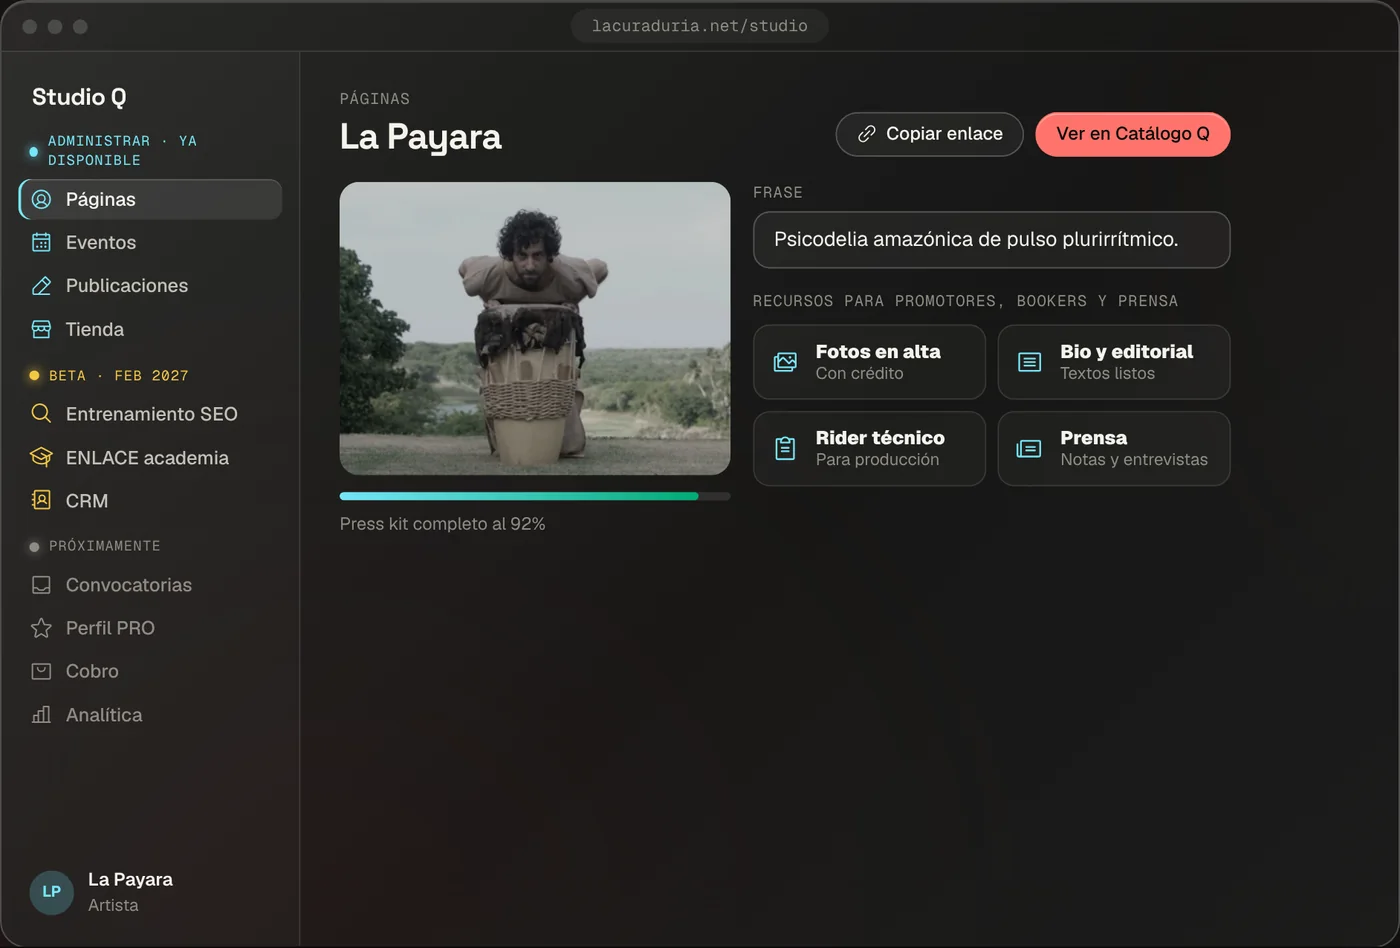
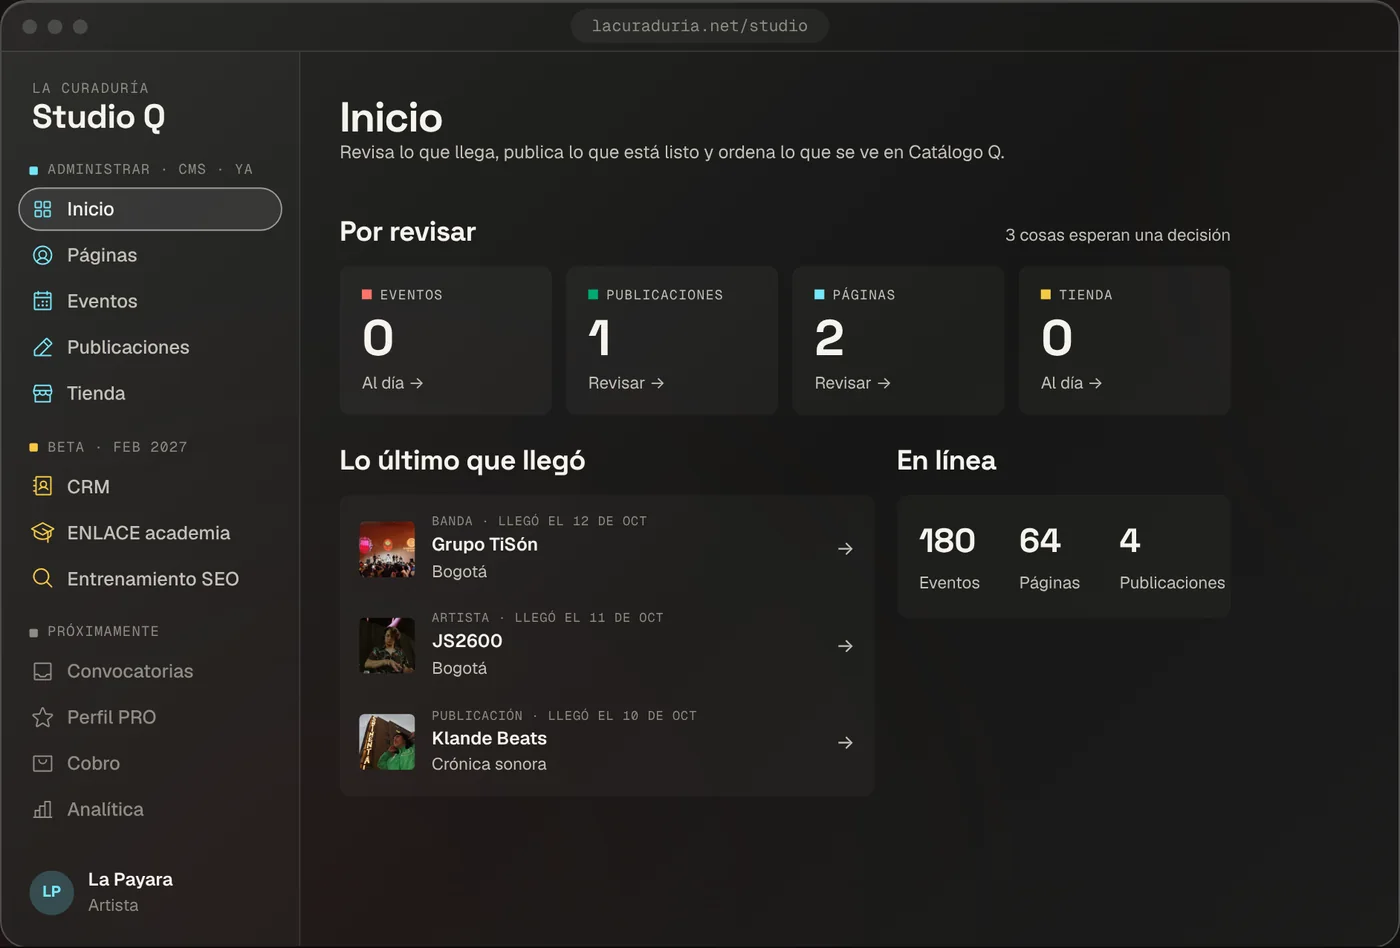
Studio Q con el diseño del panel real: Inicio (por revisar, lo último, en línea) y módulos por estado
Administrar · CMS (ya): Inicio, Páginas, Eventos, Publicaciones, Tienda. Beta feb 2027: CRM,
ENLACE academia, Entrenamiento SEO. Próximamente: Convocatorias, Perfil PRO, Cobro, Analítica.

Claude-Session: https://claude.ai/code/session_013ns4ecBsLFtjFuJTgQGV7z

diff --git a/index.html b/index.html
@@ -25,12 +25,12 @@
 <link rel="preload" href="/fuentes/space-grotesk.woff2" as="font" type="font/woff2" crossorigin>
 <link rel="preload" href="/fuentes/geist.woff2" as="font" type="font/woff2" crossorigin>
 <link rel="stylesheet" href="/estilo/landing.css?v=20261011e">
-<link rel="stylesheet" href="/estilo/demo.css?v=20261010b">
+<link rel="stylesheet" href="/estilo/demo.css?v=20261012a">
 <!-- Medición: pega aquí el ID de Google Analytics 4 (G-XXXX) y el de la conversión de Google Ads (AW-XXXX/etiqueta). Vacíos, no se carga nada de Google. -->
 <meta name="lc-ga4" content="">
 <meta name="lc-ads" content="">
 <script src="/estilo/medicion.js?v=20261010b"></script>
-<script src="/estilo/demo.js?v=20261011d" defer></script>
+<script src="/estilo/demo.js?v=20261012b" defer></script>
 <script src="/estilo/landing.js?v=20261011b" defer></script>
 <style>
 *{margin:0;padding:0;box-sizing:border-box;-webkit-tap-highlight-color:transparent;}
@@ -452,7 +452,7 @@ footer.site-footer{}
       </div>
       <div class="t-escena t-entra t-entra-3">
         <button type="button" class="t-escena-pc" onclick="navTo('preventa')" aria-label="Studio Q: ver la página para quienes hacen la cultura">
-          <img src="/img/escena/terminal.webp?v=5" alt="Studio Q: el panel de gestión con el perfil y press kit de un artista" width="1400" height="948" fetchpriority="high">
+          <img src="/img/escena/terminal.webp?v=6" alt="Studio Q: el panel de gestión con el perfil y press kit de un artista" width="1400" height="948" fetchpriority="high">
           <span class="t-escena-rotulo" style="--c: var(--p-coral);">Studio Q · para quienes hacen la cultura</span>
         </button>
         <button type="button" class="t-escena-tel" onclick="navTo('la-guia')" aria-label="Catálogo Q: ver la página para quienes viven la cultura">
@@ -532,7 +532,7 @@ footer.site-footer{}
           <button type="button" class="t-btn t-btn-sec" onclick="navTo('preventa','t-fun-precio')">Ver la preventa</button>
         </div>
       </div>
-      <button type="button" class="t-producto-img t-rv t-rv-2" onclick="navTo('preventa')" aria-label="Ver Studio Q"><img src="/img/escena/terminal.webp?v=5" alt="" width="1400" height="948" loading="lazy"></button>
+      <button type="button" class="t-producto-img t-rv t-rv-2" onclick="navTo('preventa')" aria-label="Ver Studio Q"><img src="/img/escena/terminal.webp?v=6" alt="" width="1400" height="948" loading="lazy"></button>
     </div>
   </section>
 
@@ -1450,17 +1450,18 @@ window.addEventListener('load', function(){
           <div class="t-pc-marco" data-pc-marco>
             <div class="t-pc-lienzo" data-pc-lienzo>
               <aside class="t-pro-lado">
-                <p class="t-pro-marca">Studio Q</p>
+                <p class="t-pro-marca"><small>La Curaduría</small>Studio Q</p>
                 <div class="t-pro-nav" role="group" aria-label="Módulos de Studio Q">
-                  <p class="t-pro-grupo" style="--c: var(--p-cyan);">Administrar · ya disponible</p>
-                  <button type="button" data-ir="perfiles" data-estado="ya" aria-current="true"><svg aria-hidden="true" focusable="false" xmlns="http://www.w3.org/2000/svg" viewBox="0 0 256 256" fill="currentColor"><path d="M128,24A104,104,0,1,0,232,128,104.11,104.11,0,0,0,128,24ZM74.08,197.5a64,64,0,0,1,107.84,0,87.83,87.83,0,0,1-107.84,0ZM96,120a32,32,0,1,1,32,32A32,32,0,0,1,96,120Zm97.76,66.41a79.66,79.66,0,0,0-36.06-28.75,48,48,0,1,0-59.4,0,79.66,79.66,0,0,0-36.06,28.75,88,88,0,1,1,131.52,0Z"/></svg> Páginas</button>
+                  <p class="t-pro-grupo" style="--c: var(--p-cyan);">Administrar · CMS · ya</p>
+                  <button type="button" data-ir="inicio" data-estado="ya" aria-current="true"><svg aria-hidden="true" focusable="false" xmlns="http://www.w3.org/2000/svg" viewBox="0 0 256 256" fill="currentColor"><path d="M104,40H56A16,16,0,0,0,40,56v48a16,16,0,0,0,16,16h48a16,16,0,0,0,16-16V56A16,16,0,0,0,104,40Zm0,64H56V56h48Zm96-64H152a16,16,0,0,0-16,16v48a16,16,0,0,0,16,16h48a16,16,0,0,0,16-16V56A16,16,0,0,0,200,40Zm0,64H152V56h48Zm-96,32H56a16,16,0,0,0-16,16v48a16,16,0,0,0,16,16h48a16,16,0,0,0,16-16V152A16,16,0,0,0,104,136Zm0,64H56V152h48Zm96-64H152a16,16,0,0,0-16,16v48a16,16,0,0,0,16,16h48a16,16,0,0,0,16-16V152A16,16,0,0,0,200,136Zm0,64H152V152h48Z"/></svg> Inicio</button>
+                  <button type="button" data-ir="perfiles" data-estado="ya"><svg aria-hidden="true" focusable="false" xmlns="http://www.w3.org/2000/svg" viewBox="0 0 256 256" fill="currentColor"><path d="M128,24A104,104,0,1,0,232,128,104.11,104.11,0,0,0,128,24ZM74.08,197.5a64,64,0,0,1,107.84,0,87.83,87.83,0,0,1-107.84,0ZM96,120a32,32,0,1,1,32,32A32,32,0,0,1,96,120Zm97.76,66.41a79.66,79.66,0,0,0-36.06-28.75,48,48,0,1,0-59.4,0,79.66,79.66,0,0,0-36.06,28.75,88,88,0,1,1,131.52,0Z"/></svg> Páginas</button>
                   <button type="button" data-ir="eventos" data-estado="ya"><svg aria-hidden="true" focusable="false" xmlns="http://www.w3.org/2000/svg" viewBox="0 0 256 256" fill="currentColor"><path d="M208,32H184V24a8,8,0,0,0-16,0v8H88V24a8,8,0,0,0-16,0v8H48A16,16,0,0,0,32,48V208a16,16,0,0,0,16,16H208a16,16,0,0,0,16-16V48A16,16,0,0,0,208,32ZM72,48v8a8,8,0,0,0,16,0V48h80v8a8,8,0,0,0,16,0V48h24V80H48V48ZM208,208H48V96H208V208Zm-68-76a12,12,0,1,1-12-12A12,12,0,0,1,140,132Zm44,0a12,12,0,1,1-12-12A12,12,0,0,1,184,132ZM96,172a12,12,0,1,1-12-12A12,12,0,0,1,96,172Zm44,0a12,12,0,1,1-12-12A12,12,0,0,1,140,172Zm44,0a12,12,0,1,1-12-12A12,12,0,0,1,184,172Z"/></svg> Eventos</button>
                   <button type="button" data-ir="contenidos" data-estado="ya"><svg aria-hidden="true" focusable="false" xmlns="http://www.w3.org/2000/svg" viewBox="0 0 256 256" fill="currentColor"><path d="M227.32,73.37,182.63,28.69a16,16,0,0,0-22.63,0L36.69,152A15.86,15.86,0,0,0,32,163.31V208a16,16,0,0,0,16,16H216a8,8,0,0,0,0-16H115.32l112-112A16,16,0,0,0,227.32,73.37ZM92.69,208H48V163.31l88-88L180.69,120ZM192,108.69,147.32,64l24-24L216,84.69Z"/></svg> Publicaciones</button>
                   <button type="button" data-ir="tienda" data-estado="ya"><svg aria-hidden="true" focusable="false" xmlns="http://www.w3.org/2000/svg" viewBox="0 0 256 256" fill="currentColor"><path d="M232,96a7.89,7.89,0,0,0-.3-2.2L217.35,43.6A16.07,16.07,0,0,0,202,32H54A16.07,16.07,0,0,0,38.65,43.6L24.31,93.8A7.89,7.89,0,0,0,24,96h0v16a40,40,0,0,0,16,32v72a8,8,0,0,0,8,8H208a8,8,0,0,0,8-8V144a40,40,0,0,0,16-32V96ZM54,48H202l11.42,40H42.61Zm50,56h48v8a24,24,0,0,1-48,0Zm-16,0v8a24,24,0,0,1-48,0v-8ZM200,208H56V151.2a40.57,40.57,0,0,0,8,.8,40,40,0,0,0,32-16,40,40,0,0,0,64,0,40,40,0,0,0,32,16,40.57,40.57,0,0,0,8-.8Zm-8-72a24,24,0,0,1-24-24v-8h48v8A24,24,0,0,1,192,136Z"/></svg> Tienda</button>
                   <p class="t-pro-grupo" style="--c: var(--p-yellow-clara);">Beta · feb 2027</p>
-                  <button type="button" data-ir="seo" data-estado="beta"><svg aria-hidden="true" focusable="false" xmlns="http://www.w3.org/2000/svg" viewBox="0 0 256 256" fill="currentColor"><path d="M229.66,218.34l-50.07-50.06a88.11,88.11,0,1,0-11.31,11.31l50.06,50.07a8,8,0,0,0,11.32-11.32ZM40,112a72,72,0,1,1,72,72A72.08,72.08,0,0,1,40,112Z"/></svg> Entrenamiento SEO</button>
-                  <button type="button" data-ir="enlace" data-estado="beta"><svg aria-hidden="true" focusable="false" xmlns="http://www.w3.org/2000/svg" viewBox="0 0 256 256" fill="currentColor"><path d="M251.76,88.94l-120-64a8,8,0,0,0-7.52,0l-120,64a8,8,0,0,0,0,14.12L32,117.87v48.42a15.91,15.91,0,0,0,4.06,10.65C49.16,191.53,78.51,216,128,216a130,130,0,0,0,48-8.76V240a8,8,0,0,0,16,0V199.51a115.63,115.63,0,0,0,27.94-22.57A15.91,15.91,0,0,0,224,166.29V117.87l27.76-14.81a8,8,0,0,0,0-14.12ZM128,200c-43.27,0-68.72-21.14-80-33.71V126.4l76.24,40.66a8,8,0,0,0,7.52,0L176,143.47v46.34C163.4,195.69,147.52,200,128,200Zm80-33.75a97.83,97.83,0,0,1-16,14.25V134.93l16-8.53ZM188,118.94l-.22-.13-56-29.87a8,8,0,0,0-7.52,14.12L171,128l-43,22.93L25,96,128,41.07,231,96Z"/></svg> ENLACE academia</button>
                   <button type="button" data-ir="crm" data-estado="beta"><svg aria-hidden="true" focusable="false" xmlns="http://www.w3.org/2000/svg" viewBox="0 0 256 256" fill="currentColor"><path d="M83.19,174.4a8,8,0,0,0,11.21-1.6,52,52,0,0,1,83.2,0,8,8,0,1,0,12.8-9.6A67.88,67.88,0,0,0,163,141.51a40,40,0,1,0-53.94,0A67.88,67.88,0,0,0,81.6,163.2,8,8,0,0,0,83.19,174.4ZM112,112a24,24,0,1,1,24,24A24,24,0,0,1,112,112Zm96-88H64A16,16,0,0,0,48,40V64H32a8,8,0,0,0,0,16H48v40H32a8,8,0,0,0,0,16H48v40H32a8,8,0,0,0,0,16H48v24a16,16,0,0,0,16,16H208a16,16,0,0,0,16-16V40A16,16,0,0,0,208,24Zm0,192H64V40H208Z"/></svg> CRM <span class="t-pro-cuenta" data-cuenta hidden>1</span></button>
+                  <button type="button" data-ir="enlace" data-estado="beta"><svg aria-hidden="true" focusable="false" xmlns="http://www.w3.org/2000/svg" viewBox="0 0 256 256" fill="currentColor"><path d="M251.76,88.94l-120-64a8,8,0,0,0-7.52,0l-120,64a8,8,0,0,0,0,14.12L32,117.87v48.42a15.91,15.91,0,0,0,4.06,10.65C49.16,191.53,78.51,216,128,216a130,130,0,0,0,48-8.76V240a8,8,0,0,0,16,0V199.51a115.63,115.63,0,0,0,27.94-22.57A15.91,15.91,0,0,0,224,166.29V117.87l27.76-14.81a8,8,0,0,0,0-14.12ZM128,200c-43.27,0-68.72-21.14-80-33.71V126.4l76.24,40.66a8,8,0,0,0,7.52,0L176,143.47v46.34C163.4,195.69,147.52,200,128,200Zm80-33.75a97.83,97.83,0,0,1-16,14.25V134.93l16-8.53ZM188,118.94l-.22-.13-56-29.87a8,8,0,0,0-7.52,14.12L171,128l-43,22.93L25,96,128,41.07,231,96Z"/></svg> ENLACE academia</button>
+                  <button type="button" data-ir="seo" data-estado="beta"><svg aria-hidden="true" focusable="false" xmlns="http://www.w3.org/2000/svg" viewBox="0 0 256 256" fill="currentColor"><path d="M229.66,218.34l-50.07-50.06a88.11,88.11,0,1,0-11.31,11.31l50.06,50.07a8,8,0,0,0,11.32-11.32ZM40,112a72,72,0,1,1,72,72A72.08,72.08,0,0,1,40,112Z"/></svg> Entrenamiento SEO</button>
                   <p class="t-pro-grupo" style="--c: var(--t-text-3);">Próximamente</p>
                   <button type="button" data-ir="convocatorias" data-estado="pronto"><svg aria-hidden="true" focusable="false" xmlns="http://www.w3.org/2000/svg" viewBox="0 0 256 256" fill="currentColor"><path d="M208,32H48A16,16,0,0,0,32,48V208a16,16,0,0,0,16,16H208a16,16,0,0,0,16-16V48A16,16,0,0,0,208,32Zm0,16V152h-28.7A15.86,15.86,0,0,0,168,156.69L148.69,176H107.31L88,156.69A15.86,15.86,0,0,0,76.69,152H48V48Zm0,160H48V168H76.69L96,187.31A15.86,15.86,0,0,0,107.31,192h41.38A15.86,15.86,0,0,0,160,187.31L179.31,168H208v40Z"/></svg> Convocatorias</button>
                   <button type="button" data-ir="pro" data-estado="pronto"><svg aria-hidden="true" focusable="false" xmlns="http://www.w3.org/2000/svg" viewBox="0 0 256 256" fill="currentColor"><path d="M239.18,97.26A16.38,16.38,0,0,0,224.92,86l-59-4.76L143.14,26.15a16.36,16.36,0,0,0-30.27,0L90.11,81.23,31.08,86a16.46,16.46,0,0,0-9.37,28.86l45,38.83L53,211.75a16.38,16.38,0,0,0,24.5,17.82L128,198.49l50.53,31.08A16.4,16.4,0,0,0,203,211.75l-13.76-58.07,45-38.83A16.43,16.43,0,0,0,239.18,97.26Zm-15.34,5.47-48.7,42a8,8,0,0,0-2.56,7.91l14.88,62.8a.37.37,0,0,1-.17.48c-.18.14-.23.11-.38,0l-54.72-33.65a8,8,0,0,0-8.38,0L69.09,215.94c-.15.09-.19.12-.38,0a.37.37,0,0,1-.17-.48l14.88-62.8a8,8,0,0,0-2.56-7.91l-48.7-42c-.12-.1-.23-.19-.13-.5s.18-.27.33-.29l63.92-5.16A8,8,0,0,0,103,91.86l24.62-59.61c.08-.17.11-.25.35-.25s.27.08.35.25L153,91.86a8,8,0,0,0,6.75,4.92l63.92,5.16c.15,0,.24,0,.33.29S224,102.63,223.84,102.73Z"/></svg> Perfil PRO</button>
@@ -1471,8 +1472,19 @@ window.addEventListener('load', function(){
               </aside>
 
               <div class="t-pro-main">
+                <!-- Inicio (ya): el panel de Studio Q, como el real -->
+                <section class="t-pro-vista t-pro-inicio" data-vista="inicio">
+                  <header class="t-pro-cab"><div><h3>Inicio</h3><p class="t-pro-sub">Revisa lo que llega, publica lo que está listo y ordena lo que se ve en Catálogo Q.</p></div></header>
+                  <div class="t-pro-h4"><b>Por revisar</b><small>3 cosas esperan una decisión</small></div>
+                  <div class="t-pro-kpis"><button type="button" class="t-pro-kpi" data-ir="eventos" style="--c: var(--p-coral);"><small>Eventos</small><b>0</b><span>Al día →</span></button><button type="button" class="t-pro-kpi" data-ir="contenidos" style="--c: var(--p-green);"><small>Publicaciones</small><b>1</b><span>Revisar →</span></button><button type="button" class="t-pro-kpi" data-ir="perfiles" style="--c: var(--p-cyan);"><small>Páginas</small><b>2</b><span>Revisar →</span></button><button type="button" class="t-pro-kpi" data-ir="tienda" style="--c: var(--p-yellow-clara);"><small>Tienda</small><b>0</b><span>Al día →</span></button></div>
+                  <div class="t-pro-dos">
+                    <div><div class="t-pro-h4"><b>Lo último que llegó</b></div><div class="t-pro-lista-llego"><button type="button" class="t-pro-llego" data-ir="perfiles"><img src="/img/demo/co-tison.jpg" alt="" width="48" height="48"><span><small>Banda · llegó el 12 de oct</small><b>Grupo TiSón</b><em>Bogotá</em></span><i aria-hidden="true">→</i></button><button type="button" class="t-pro-llego" data-ir="perfiles"><img src="/img/demo/js2600.jpg" alt="" width="48" height="48"><span><small>Artista · llegó el 11 de oct</small><b>JS2600</b><em>Bogotá</em></span><i aria-hidden="true">→</i></button><button type="button" class="t-pro-llego" data-ir="contenidos"><img src="/img/demo/co-klande.jpg" alt="" width="48" height="48"><span><small>Publicación · llegó el 10 de oct</small><b>Klande Beats</b><em>Crónica sonora</em></span><i aria-hidden="true">→</i></button></div></div>
+                    <div><div class="t-pro-h4"><b>En línea</b></div><div class="t-pro-cifras"><p><b>180</b>Eventos</p><p><b>64</b>Páginas</p><p><b>4</b>Publicaciones</p></div></div>
+                  </div>
+                </section>
+
                 <!-- Perfil y press kit (ya) -->
-                <section class="t-pro-vista" data-vista="perfiles">
+                <section class="t-pro-vista" data-vista="perfiles" hidden>
                   <header class="t-pro-cab"><div><p class="t-pro-miga">Páginas</p><h3>La Payara</h3></div><div class="t-pro-cab-acc"><button type="button" class="t-pro-btn" data-accion="copiar-kit"><svg aria-hidden="true" focusable="false" xmlns="http://www.w3.org/2000/svg" viewBox="0 0 256 256" fill="currentColor"><path d="M165.66,90.34a8,8,0,0,1,0,11.32l-64,64a8,8,0,0,1-11.32-11.32l64-64A8,8,0,0,1,165.66,90.34ZM215.6,40.4a56,56,0,0,0-79.2,0L106.34,70.45a8,8,0,0,0,11.32,11.32l30.06-30a40,40,0,0,1,56.57,56.56l-30.07,30.06a8,8,0,0,0,11.31,11.32L215.6,119.6a56,56,0,0,0,0-79.2ZM138.34,174.22l-30.06,30.06a40,40,0,1,1-56.56-56.57l30.05-30.05a8,8,0,0,0-11.32-11.32L40.4,136.4a56,56,0,0,0,79.2,79.2l30.06-30.07a8,8,0,0,0-11.32-11.31Z"/></svg> Copiar enlace</button><button type="button" class="t-pro-btn t-pro-btn-pri" data-accion="ver-perfil" data-ancla="perfiles">Ver en Catálogo Q</button></div></header>
                   <div class="t-pro-dos t-pro-dos-perfil">
                     <figure class="t-pro-foto"><img src="/img/demo/la-payara.jpg" alt="" width="560" height="300"><figcaption><span class="t-pro-barra" style="--v: 92%;"></span>Press kit completo al 92%</figcaption></figure>
@@ -1638,7 +1650,7 @@ window.addEventListener('load', function(){
 
         <!-- En pantallas pequeñas el lienzo no se lee: los módulos y su explicación van fuera -->
         <div class="t-demo-funciones" role="group" aria-label="Módulos de Studio Q">
-          <button type="button" data-ir="perfiles" data-estado="ya">Páginas</button><button type="button" data-ir="eventos" data-estado="ya">Eventos</button><button type="button" data-ir="contenidos" data-estado="ya">Publicaciones</button><button type="button" data-ir="tienda" data-estado="ya">Tienda</button><button type="button" data-ir="seo" data-estado="beta">SEO</button><button type="button" data-ir="enlace" data-estado="beta">ENLACE</button><button type="button" data-ir="crm" data-estado="beta">CRM</button><button type="button" data-ir="convocatorias" data-estado="pronto">Convocatorias</button><button type="button" data-ir="pro" data-estado="pronto">Perfil PRO</button><button type="button" data-ir="cobro" data-estado="pronto">Cobro</button><button type="button" data-ir="analitica" data-estado="pronto">Analítica</button>
+          <button type="button" data-ir="inicio" data-estado="ya">Inicio</button><button type="button" data-ir="perfiles" data-estado="ya">Páginas</button><button type="button" data-ir="eventos" data-estado="ya">Eventos</button><button type="button" data-ir="contenidos" data-estado="ya">Publicaciones</button><button type="button" data-ir="tienda" data-estado="ya">Tienda</button><button type="button" data-ir="seo" data-estado="beta">SEO</button><button type="button" data-ir="enlace" data-estado="beta">ENLACE</button><button type="button" data-ir="crm" data-estado="beta">CRM</button><button type="button" data-ir="convocatorias" data-estado="pronto">Convocatorias</button><button type="button" data-ir="pro" data-estado="pronto">Perfil PRO</button><button type="button" data-ir="cobro" data-estado="pronto">Cobro</button><button type="button" data-ir="analitica" data-estado="pronto">Analítica</button>
         </div>
         <p class="t-demo-nota" data-nota></p>
 

diff --git a/estilo/demo.css b/estilo/demo.css
@@ -470,3 +470,37 @@
 .t-mv-lugar { cursor: default; }
 /* En La Guía, el teléfono del copiloto se ve como un chat: sin las pestañas de abajo */
 #demo-guia .t-movil-pantalla:has([data-movil="guia"]:not([hidden])) .t-mv-tabs { display: none; }
+
+/* ══ Studio Q con la estética del panel real (12 oct) ══ */
+.t-pro-marca { display: grid; gap: 2px; font-size: 24px; font-weight: 700; letter-spacing: -.02em; line-height: 1.1; padding: 0 10px 6px; }
+.t-pro-marca small { font-family: var(--lc-font-mono); font-weight: 400; font-size: 10px; letter-spacing: .1em; text-transform: uppercase; color: var(--t-text-3); }
+.t-pro-grupo { color: var(--t-text-3) !important; margin-top: 14px !important; }
+.t-pro-grupo::before { width: 6px; height: 6px; border-radius: 1px; box-shadow: none; }
+.t-pro-nav button { border-radius: 999px; border: 1px solid transparent; }
+.t-pro-nav button[aria-current="true"] { background: rgba(255, 255, 255, .08); border-color: rgba(255, 255, 255, .5); box-shadow: none !important; }
+/* Inicio */
+.t-pro-sub { margin: 6px 0 0; font-size: 13px; color: var(--t-text-2); }
+.t-pro-inicio .t-pro-cab h3 { font-size: 30px; }
+.t-pro-h4 { display: flex; justify-content: space-between; align-items: baseline; margin: 18px 0 10px; }
+.t-pro-h4 b { font-family: var(--lc-font-display); font-size: 20px; letter-spacing: -.02em; }
+.t-pro-h4 small { font-size: 12px; color: var(--t-text-2); }
+.t-pro-kpis { display: grid; grid-template-columns: repeat(4, minmax(0, 1fr)); gap: 10px; }
+.t-pro-kpi { display: grid; gap: 6px; text-align: left; padding: 14px 16px; border-radius: 8px; border: 0; background: rgba(255, 255, 255, .04); color: var(--t-text); cursor: pointer; font: inherit; }
+.t-pro-kpi:hover { background: rgba(255, 255, 255, .07); }
+.t-pro-kpi small { display: flex; align-items: center; gap: 6px; font-family: var(--lc-font-mono); font-size: 9.5px; letter-spacing: .08em; text-transform: uppercase; color: var(--t-text-2); }
+.t-pro-kpi small::before { content: ""; width: 7px; height: 7px; background: var(--c); }
+.t-pro-kpi b { font-family: var(--lc-font-display); font-size: 36px; line-height: 1; }
+.t-pro-kpi span { font-size: 12px; color: var(--t-text-2); }
+.t-pro-dos { display: grid; grid-template-columns: minmax(0, 1.6fr) minmax(0, 1fr); gap: 16px; }
+.t-pro-lista-llego { display: grid; border-radius: 8px; background: rgba(255, 255, 255, .03); padding: 4px 0; }
+.t-pro-llego { display: grid; grid-template-columns: 40px 1fr auto; gap: 12px; align-items: center; padding: 9px 14px; border: 0; background: none; color: var(--t-text); text-align: left; cursor: pointer; font: inherit; }
+.t-pro-llego:hover { background: rgba(255, 255, 255, .04); }
+.t-pro-llego img { width: 40px; height: 40px; border-radius: 4px; object-fit: cover; }
+.t-pro-llego span { display: grid; gap: 1px; min-width: 0; }
+.t-pro-llego small { font-family: var(--lc-font-mono); font-size: 9px; letter-spacing: .06em; text-transform: uppercase; color: var(--t-text-3); }
+.t-pro-llego b { font-size: 13px; font-weight: 600; }
+.t-pro-llego em { font-style: normal; font-size: 12px; color: var(--t-text-2); }
+.t-pro-llego i { font-style: normal; color: var(--t-text-2); }
+.t-pro-cifras { display: grid; grid-template-columns: repeat(3, 1fr); gap: 8px; padding: 16px; border-radius: 8px; background: rgba(255, 255, 255, .03); }
+.t-pro-cifras p { margin: 0; display: grid; gap: 4px; font-size: 12px; color: var(--t-text-2); }
+.t-pro-cifras b { font-family: var(--lc-font-display); font-size: 24px; color: var(--t-text); }

diff --git a/estilo/demo.js b/estilo/demo.js
@@ -37,6 +37,9 @@ function montarDemo(demo) {
 
   /* ── 2. Studio Q: módulos y ventana ─────────────────────────── */
   var modulos = [
+    { id: 'inicio', estado: 'ya', titulo: 'Inicio',
+      texto: 'Tu panel: lo que llega para revisar, lo que ya está en línea y lo que se ve en Catálogo Q.',
+      prueba: 'Pruébalo: toca una tarjeta de «Por revisar».' },
     { id: 'perfiles', estado: 'ya', titulo: 'Páginas',
       texto: 'Administra la página de tu proyecto: fotos, bio, editorial, rider y prensa. Promotores, bookers y periodistas encuentran ahí todo para programarte y hacer contenido.',
       prueba: 'Pruébalo: cambia la frase y toca «Ver en Catálogo Q».' },
@@ -71,7 +74,7 @@ function montarDemo(demo) {
       texto: 'Quién visita tu perfil, desde dónde y qué guarda. Los datos de esta vista son de ejemplo.',
       prueba: '' }
   ];
-  var actual = 0, ventanaAbierta = true;
+  var actual = 0, ventanaAbierta = false; // la ventana se abre al tocar un módulo, no al cargar
   var ventana = $('[data-ventana]'), punto = $('[data-punto]'), nota = $('[data-nota]');
 
   function ir(id, abrirVentana) {
@@ -434,7 +437,7 @@ function montarDemo(demo) {
     if ('ResizeObserver' in window) new ResizeObserver(escalar).observe(marco);
     else window.addEventListener('resize', escalar);
     escalar();
-    ir('perfiles');
+    ir('inicio', false);
     // Para que otras secciones de la página abran un módulo: lcDemo.ir('crm')
     window.lcDemo = { ir: function (id) { ir(id); } };
   }
